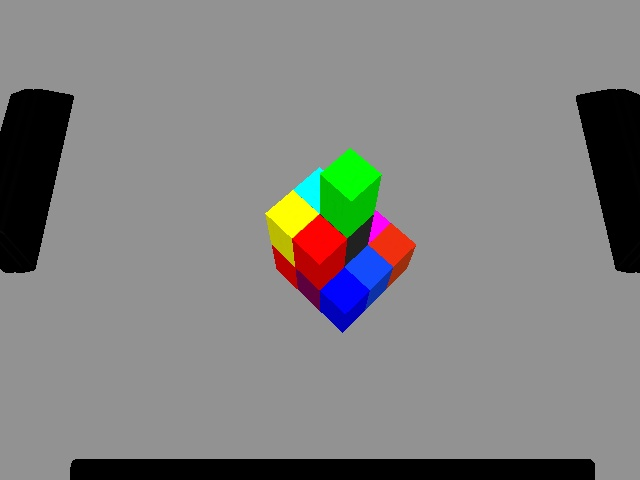
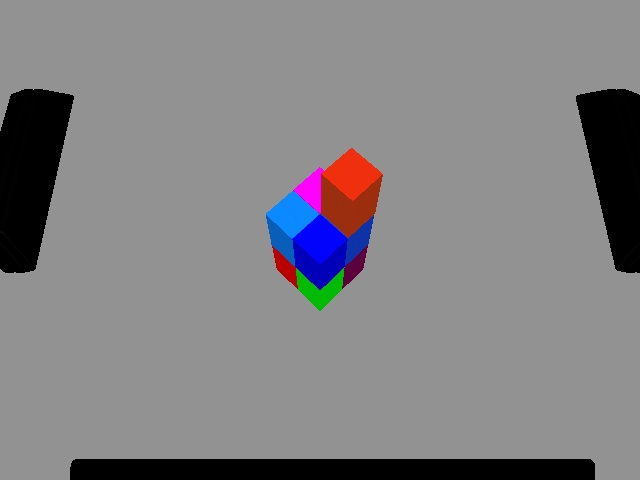
fixing world_coordinates aggregation

Changed region(s): [[0.4062, 0.3125, 0.6562, 0.6875]]

diff --git a/src/generate_schematic/src/generate_schematic.py b/src/generate_schematic/src/generate_schematic.py
@@ -19,11 +19,12 @@ OUTPUT_FILE = "output/schematic.txt"
 def main():
     rospy.init_node("schematic_node", anonymous = True)
     #idea: take all points and round coordinates to nearest multiples
-    world_coordinates = get_coordinates_for_pair(0, 1)
-    for i in range(1, 12):
+    world_coordinates = []
+    for i in range(12):
         new_pair_coordinates = get_coordinates_for_pair(2 * i, 2 * i + 1)
         if len(new_pair_coordinates) != 0:
-            world_coordinates = np.vstack((world_coordinates, new_pair_coordinates))
+            world_coordinates.append(new_pair_coordinates)
+    world_coordinates = np.vstack(world_coordinates)
 
     #remove duplicates
     world_coordinates = unique_rows(world_coordinates)

diff --git a/src/global_constants/src/global_constants/constants.py b/src/global_constants/src/global_constants/constants.py
@@ -25,7 +25,7 @@ for delta in deltas:
         CAMERA_DATA.append([(x + delta[0] + .01, y + delta[1] + .01, z), (0 , 1.15, delta[2])])
 
 STRUCTURE_TO_BUILD = [  # Passed into WorldSimulation.add_square_2d
-    [x, y, 3, 0],
+    [x, y, 2, 0],
     [x, y, 2, 1],
     [x, y, 1, 2],
 ]
